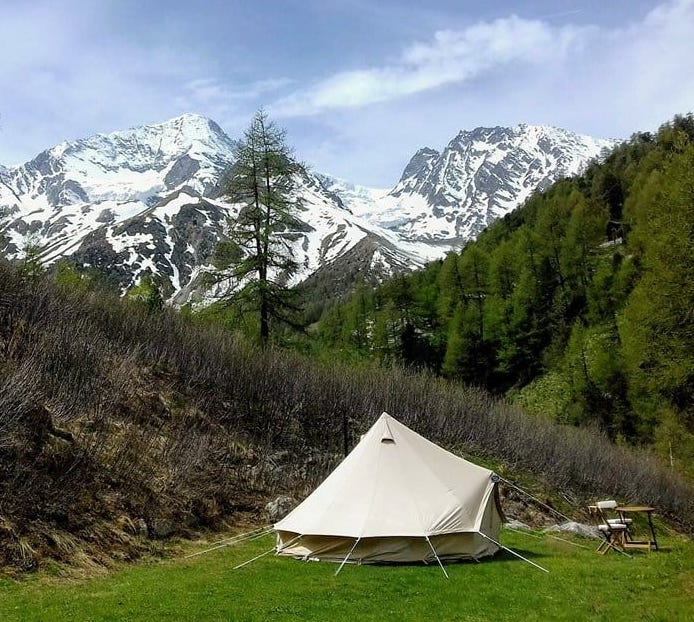
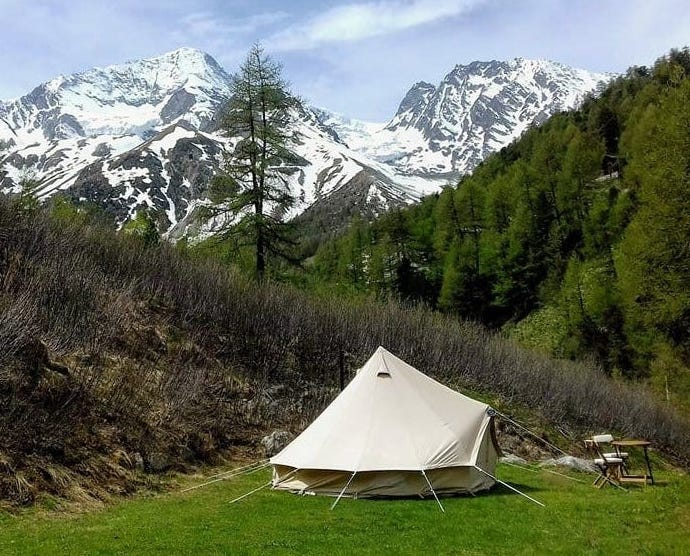
Ajoute photo tente dans call action

diff --git a/layouts/partials/call-to-action.html b/layouts/partials/call-to-action.html
@@ -1,0 +1,22 @@
+<!-- Call to action Start -->
+{{ with .Site.Params.call }}
+<section id="call-to-action">
+  <div class="container">
+    <div class="row">
+      <div class="col-md-12">
+        <div class="block">
+          <h2>{{ .title }}</h2>
+          <p>{{ .paragraph }}</p>
+          {{ with .button }}
+          <a class="btn btn-default btn-call-to-action" href="{{ .url }}" >{{ .text }}</a>
+          {{ end }}
+
+          <img src="img/cocoon_montagnes-mini.jpg">
+
+        </div>
+      </div>
+    </div>
+  </div>
+</section>
+
+{{ end }}

diff --git a/static/css/airspace.css b/static/css/airspace.css
@@ -269,7 +269,7 @@ and (max-device-width : 1024px)
 and (orientation : landscape)
 and (-webkit-min-device-pixel-ratio: 1)  {
   #feature {
-    background: url("../img/featue-bg-mini.jpg");
+    background: url("../img/cocoon_montagnes-mini.jpg");
     /* background-attachment: fixed; DOES NOT WORK */
   }
 }
